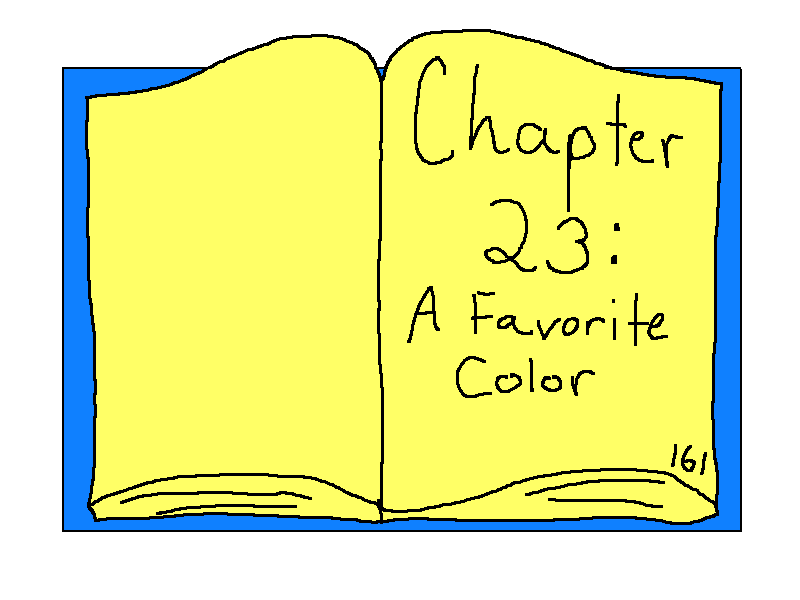
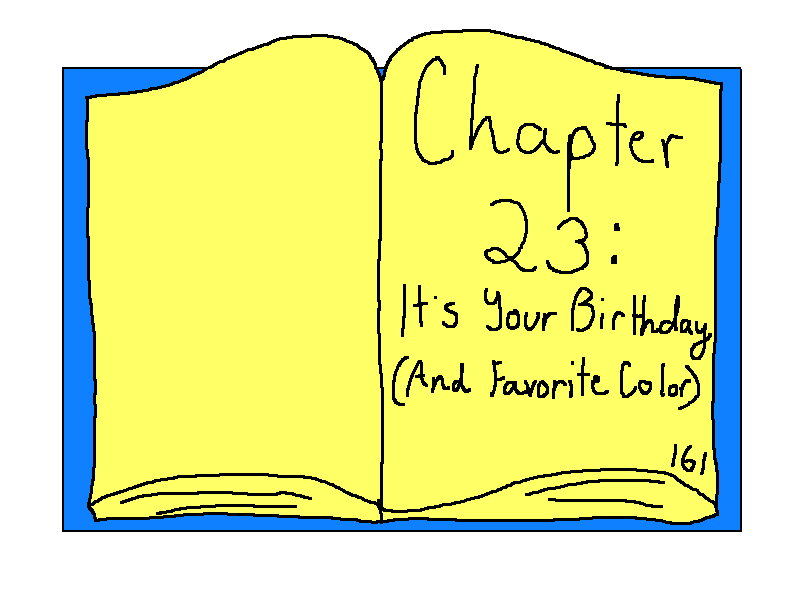
added some birthday messages

Changed region(s): [[0.4688, 0.48, 0.9062, 0.69]]

diff --git a/overlay.js b/overlay.js
@@ -10,12 +10,14 @@ export default class Overlay {
 
         let text;
         if (this.type == overlays.START) {
-            text = "You find yourself in a room\n\nthat looks like it was made\n\nin the Mac version of\n\nMicrosoft Paint.\n\nCan you escape?"
+            text = "You find yourself in a room\n\nthat looks like it was made\n\nin the Mac version of\n\nMicrosoft Paint.\n\nCan you escape?";
             this.startButton = this.scene.add.image(-1000, -1000, 'startButton').setName(identifiers.STARTBUTTON);
             this.startButton.setInteractive(Phaser.Geom.Rectangle());
             this.startButton.setDepth(2000);
         } else {
-            text = "You escaped the room!!!\n\nGreat job!\n\n(Sy was too lazy to implement\n\na 'Play Again' button\n\nso refresh the page if you\n\nwant another go at it)"
+            text = "You escaped the room!!!\n\nGreat job!\n\n(Sy was too lazy to implement\n\na 'Play Again' button\n\nso refresh the page if you\n\nwant another go at it)";
+            this.bottomText = this.scene.add.text(-1000, -1000, "Also happy birthday Len :)", { color: '#fff', fontSize: 20, align: 'center' });
+            this.bottomText.setDepth(2000);
         }
 
         this.text = this.scene.add.text(-1000, -1000, text, { color: '#fff', fontSize: 38, align: 'center' });
@@ -29,6 +31,7 @@ export default class Overlay {
             this.startButton.setPosition(400, 500);
         } else {
             this.text.setPosition(50, 50);
+            this.bottomText.setPosition(250, 540);
         }
     }
 
